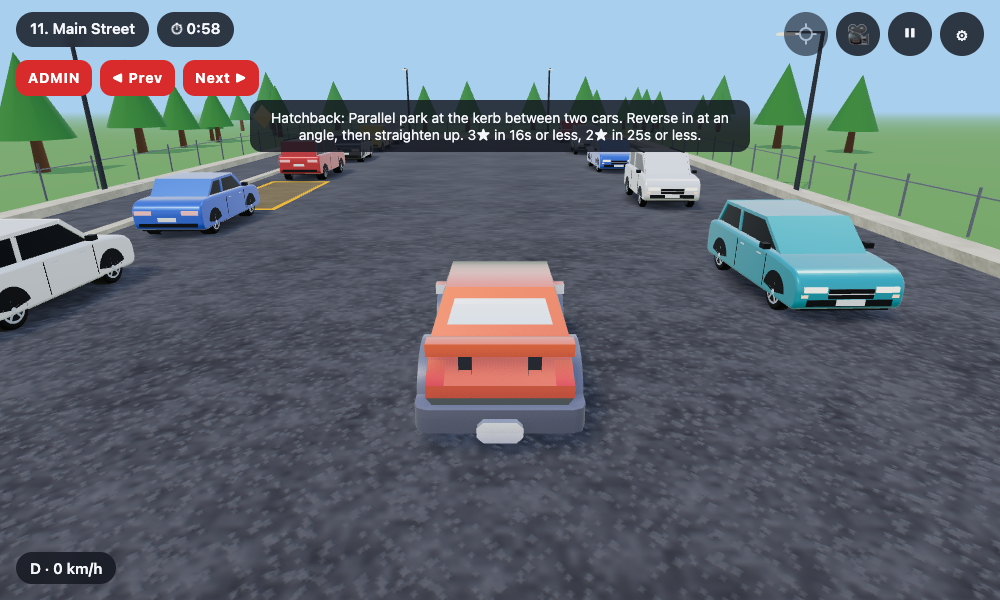
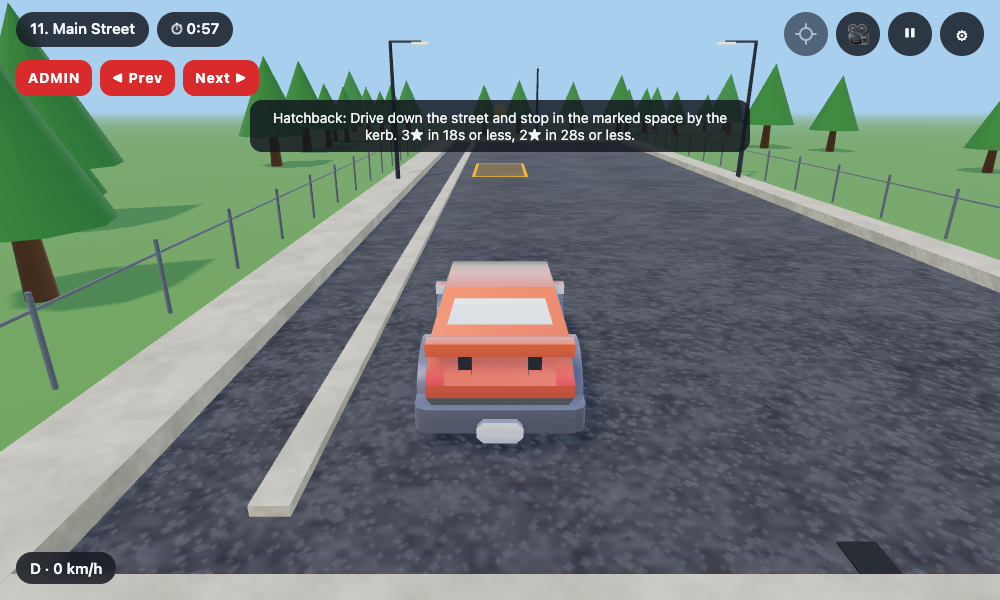
CARP-137: Main Street rebuilt from scratch as an empty street

diff --git a/src/levels.ts b/src/levels.ts
@@ -821,18 +821,18 @@ const MASTER_LEVELS: RawLevel[] = [
   },
 ];
 
-/** Main Street: an empty street with a kerb (Curb Side's gap and spawn, no parked cars). */
+/** Main Street: a plain road with a kerb along one side. Pull up and stop in the marked space by the kerb. */
 const STREET_LEVEL: RawLevel = {
   id: 'main-street',
   name: 'Main Street',
-  hint: 'Park in the marked space by the kerb. Reverse in at an angle, then straighten up.',
-  lot: { w: 64, l: 26 },
-  spawn: { x: -16, z: 2, rot: PI / 2 },
-  target: { x: 0, z: -7.2, rot: PI / 2, w: 2.5, l: 6.8 },
+  hint: 'Drive down the street and stop in the marked space by the kerb.',
+  lot: { w: 48, l: 14 },
+  spawn: { x: -20, z: -3.2, rot: PI / 2 },
+  target: { x: 4, z: -3.2, rot: PI / 2, w: 2.6, l: 5.6 },
   bothWays: true,
   time: 60,
-  stars: { three: 16, two: 25 },
-  obstacles: [{ kind: 'wall', x: 0, z: -9.6, w: 62, l: 0.4, h: 0.25 }],
+  stars: { three: 18, two: 28 },
+  obstacles: [{ kind: 'wall', x: 0, z: -5.4, w: 46, l: 0.4, h: 0.25 }],
 };
 
 const RAW_LEVELS: RawLevel[] = [

diff --git a/src/levels.solutions.ts b/src/levels.solutions.ts
@@ -284,8 +284,8 @@ function mirror(segments: Segment[]): Segment[] {
 
 SOLUTIONS['backhand-angle'] = mirror(SOLUTIONS['angle-of-attack']);
 SOLUTIONS['one-way-curb'] = mirror(SOLUTIONS['curb-side']);
-// Main Street shares Curb Side's gap and spawn; its extra cars are further along the kerb.
-SOLUTIONS['main-street'] = SOLUTIONS['curb-side'];
+// Main Street: straight down the street, then stop in the space (the distance is fixed, tuned by validate).
+SOLUTIONS['main-street'] = [...Array.from({ length: 15 }, () => S(0.5, 1, 0)), S(0.5, 0, 0), S(1.2, 0, 0, true)];
 
 // Van: drive past the bay, then reverse in at an angle (found by searching the physics, replayed by validate).
 SOLUTIONS['van-garage'] = [

diff --git a/docs/LEVELS.md b/docs/LEVELS.md
@@ -169,17 +169,17 @@ one map per floor and ramps are blue with an arrow pointing uphill.
 
 ## 11. Main Street
 
-> Park in the marked space by the kerb. Reverse in at an angle, then straighten up.
+> Drive down the street and stop in the marked space by the kerb.
 
 | | |
 | --- | --- |
 | Id | `main-street` |
 | Vehicle | Hatchback |
-| Lot | 64 × 26 m |
+| Lot | 48 × 14 m |
 | Time limit | 60 s |
-| Star times | 3 stars ≤ 16 s, 2 stars ≤ 25 s, 1 star within 60 s |
-| Target bay | x 0, z -7.2, 2.5 × 6.8 m, facing 90° (either direction) |
-| Start pose | x -16, z 2, heading 90° |
+| Star times | 3 stars ≤ 18 s, 2 stars ≤ 28 s, 1 star within 60 s |
+| Target bay | x 4, z -3.2, 2.6 × 5.6 m, facing 90° (either direction) |
+| Start pose | x -20, z -3.2, heading 90° |
 
 ![Main Street](maps/main-street.svg)
 
